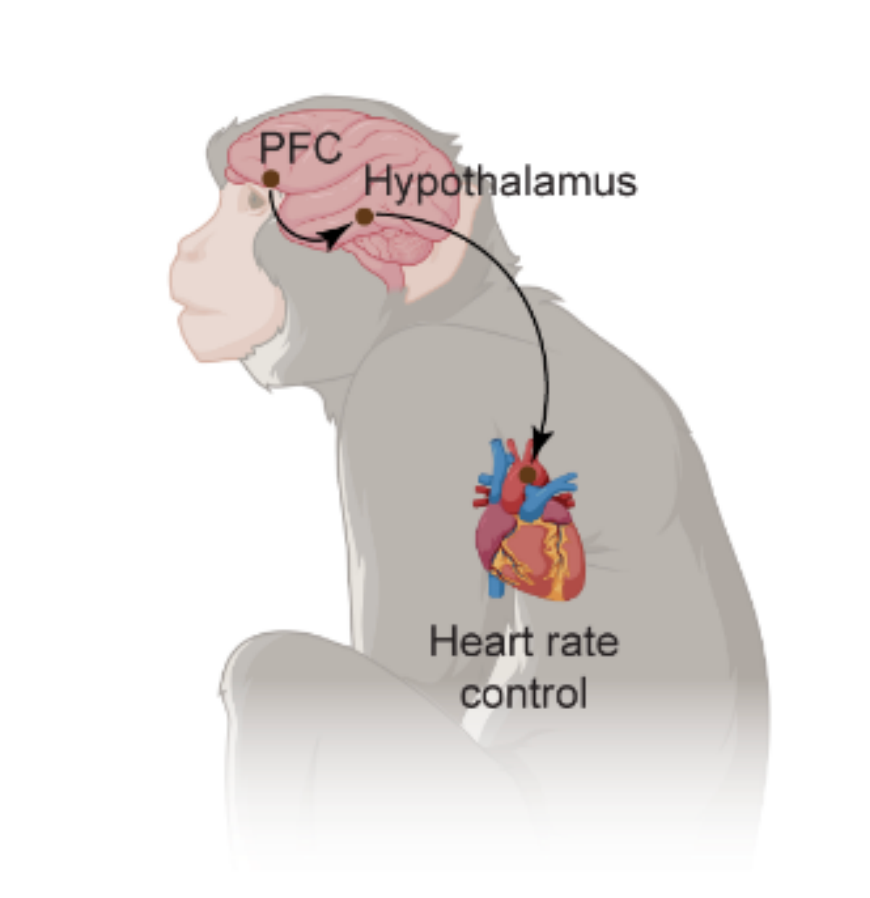
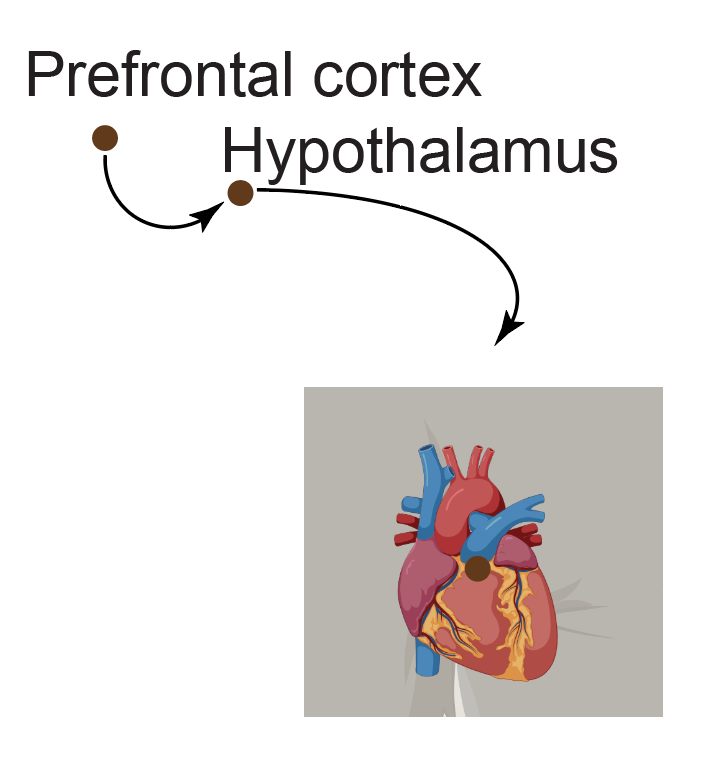
remove the links section

diff --git a/js/site.js b/js/site.js
@@ -16,13 +16,6 @@ const SITE = {
   ],
   address: ["Room 275, Maxine F. Singer Building", "3520 San Martin Dr", "Baltimore, MD 21218"],
   email: "ilya.monosov@gmail.com",
-  footerLinks: [
-    { label: "Graduate Programs", href: "https://neuroscience.jhu.edu/graduate" },
-    { label: "Neuroscience Department", href: "https://neuroscience.jhu.edu/" },
-    { label: "Find us on social media", href: "https://x.com/MonosovLab" },
-    { label: "GitHub", href: "https://github.com/monosovlab" },
-    { label: "Support Our Mission", href: "support.html" },
-  ],
 };
 
 (function buildLayout() {
@@ -46,10 +39,6 @@ const SITE = {
           <h4>Find Us</h4>
           <address>${SITE.address.join("<br>")}</address>
           <a href="mailto:${SITE.email}">${SITE.email}</a>
-        </div>
-        <div class="foot-col">
-          <h4>Links</h4>
-          ${SITE.footerLinks.map(l => `<a href="${l.href}">${l.label}</a>`).join("")}
         </div>
       </div>
       <div class="foot-bottom">

diff --git a/css/style.css b/css/style.css
@@ -446,7 +446,7 @@ a.read-paper:hover,
 .tool-list li span { color: var(--muted); font-size: 15px; text-align: right; }
 
 footer { background: var(--dark); color: var(--light); padding: 100px 6vw 40px; }
-.foot-grid { display: grid; grid-template-columns: 1.4fr 1fr 1fr; gap: 50px; padding-bottom: 70px; }
+.foot-grid { display: grid; grid-template-columns: 1.4fr 1fr; gap: 50px; padding-bottom: 70px; }
 .foot-logos { display: flex; gap: 20px; }
 .logo-ph {
   width: 110px; height: 110px; border: 1px dashed rgba(255,255,255,.3);

diff --git a/people.html b/people.html
@@ -184,6 +184,6 @@
   </section>
 
   <div id="site-footer"></div>
-  <script src="js/site.js?v=4"></script>
+  <script src="js/site.js?v=5"></script>
 </body>
 </html>

diff --git a/publications.html b/publications.html
@@ -449,6 +449,6 @@
   </section>
 
   <div id="site-footer"></div>
-  <script src="js/site.js?v=2"></script>
+  <script src="js/site.js?v=5"></script>
 </body>
 </html>

diff --git a/research.html b/research.html
@@ -173,6 +173,6 @@
   </section>
 
   <div id="site-footer"></div>
-  <script src="js/site.js?v=2"></script>
+  <script src="js/site.js?v=5"></script>
 </body>
 </html>

diff --git a/home.html b/home.html
@@ -39,6 +39,6 @@
   </section>
 
   <div id="site-footer"></div>
-  <script src="js/site.js?v=2"></script>
+  <script src="js/site.js?v=5"></script>
 </body>
 </html>

diff --git a/methods.html b/methods.html
@@ -56,6 +56,6 @@
   </section>
 
   <div id="site-footer"></div>
-  <script src="js/site.js?v=2"></script>
+  <script src="js/site.js?v=5"></script>
 </body>
 </html>

diff --git a/news.html b/news.html
@@ -54,6 +54,6 @@
   </section>
 
   <div id="site-footer"></div>
-  <script src="js/site.js?v=2"></script>
+  <script src="js/site.js?v=5"></script>
 </body>
 </html>

diff --git a/support.html b/support.html
@@ -50,6 +50,6 @@
   </section>
 
   <div id="site-footer"></div>
-  <script src="js/site.js?v=2"></script>
+  <script src="js/site.js?v=5"></script>
 </body>
 </html>
